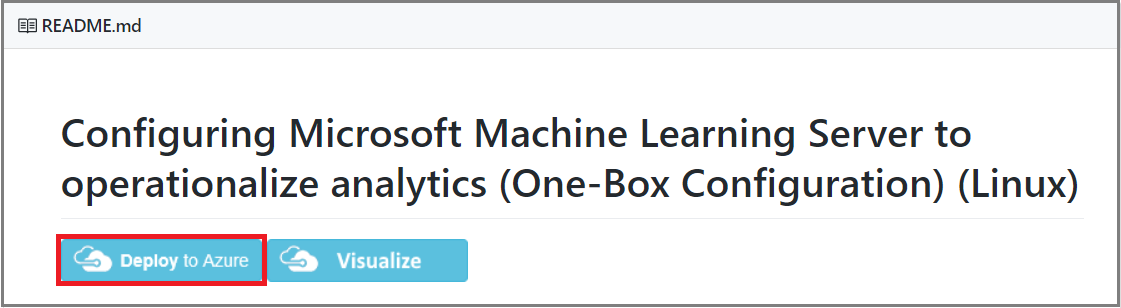
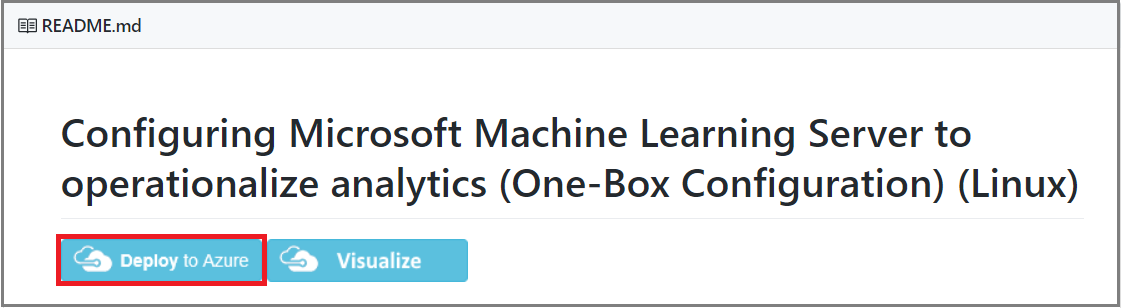
image resize

diff --git a/microsoft-r/install/machine-learning-server-azure-vm-on-linux.md b/microsoft-r/install/machine-learning-server-azure-vm-on-linux.md
@@ -48,7 +48,7 @@ When you use a template, the server is installed and operationalized for remote 
 
 1. On the readme page for the option you selected, click **Deploy to Azure**.
 
-![Deploy button on the readme page](./media/machine-learning-server-install-azure-vm/gh-readme-page.png)
+   ![Deploy button on the readme page](./media/machine-learning-server-install-azure-vm/gh-readme-page-2.png)
 
 ## Provision a Machine Learning Server VM in the portal
 
